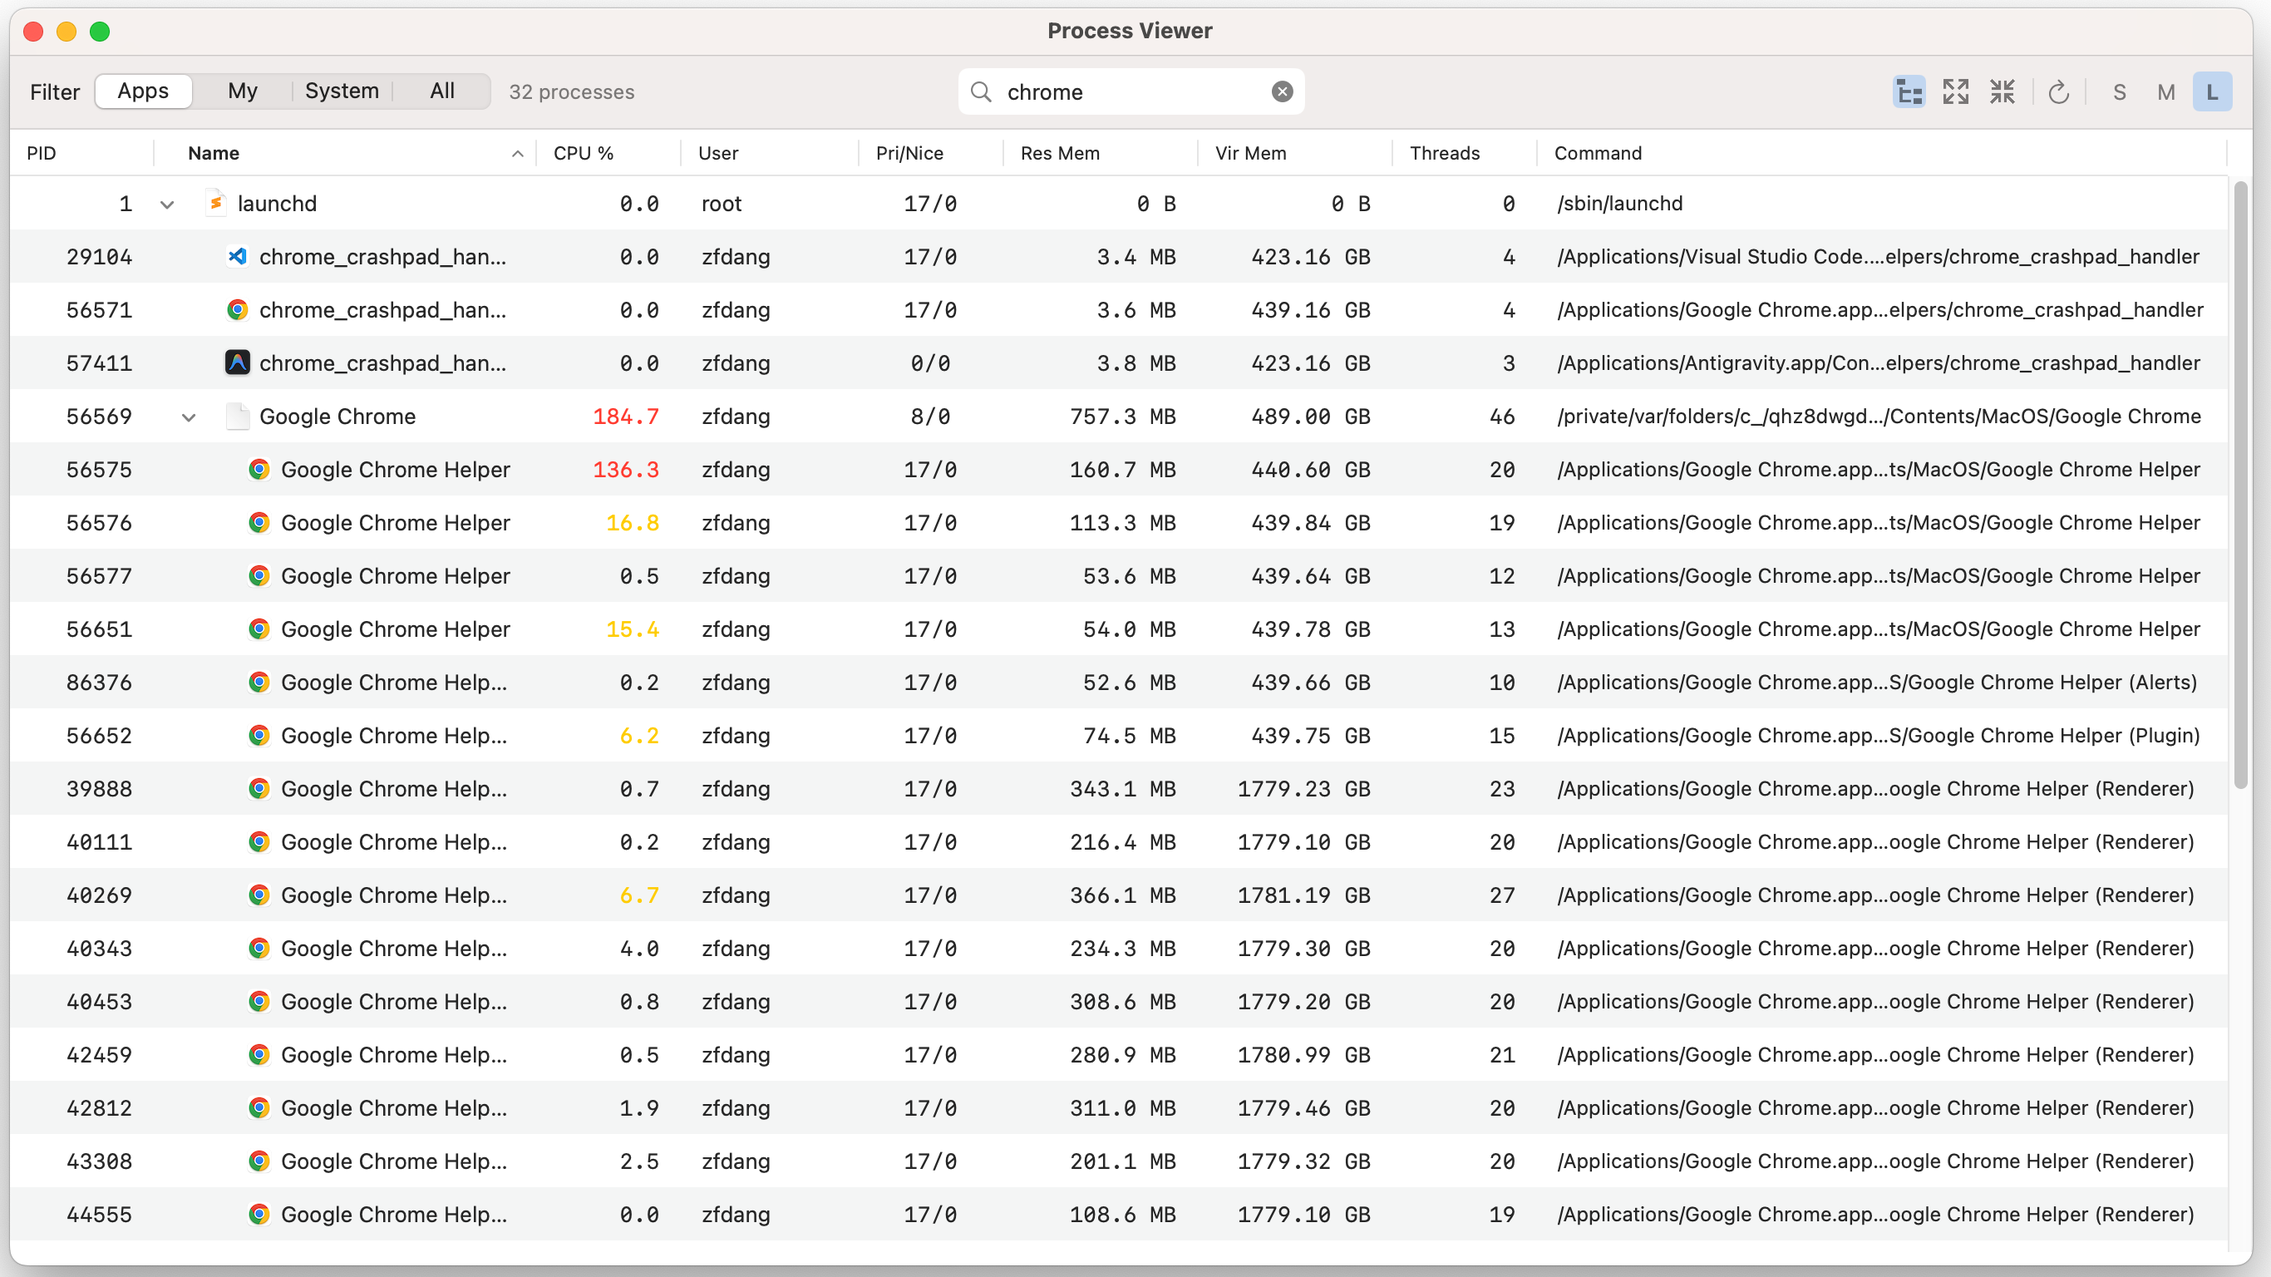
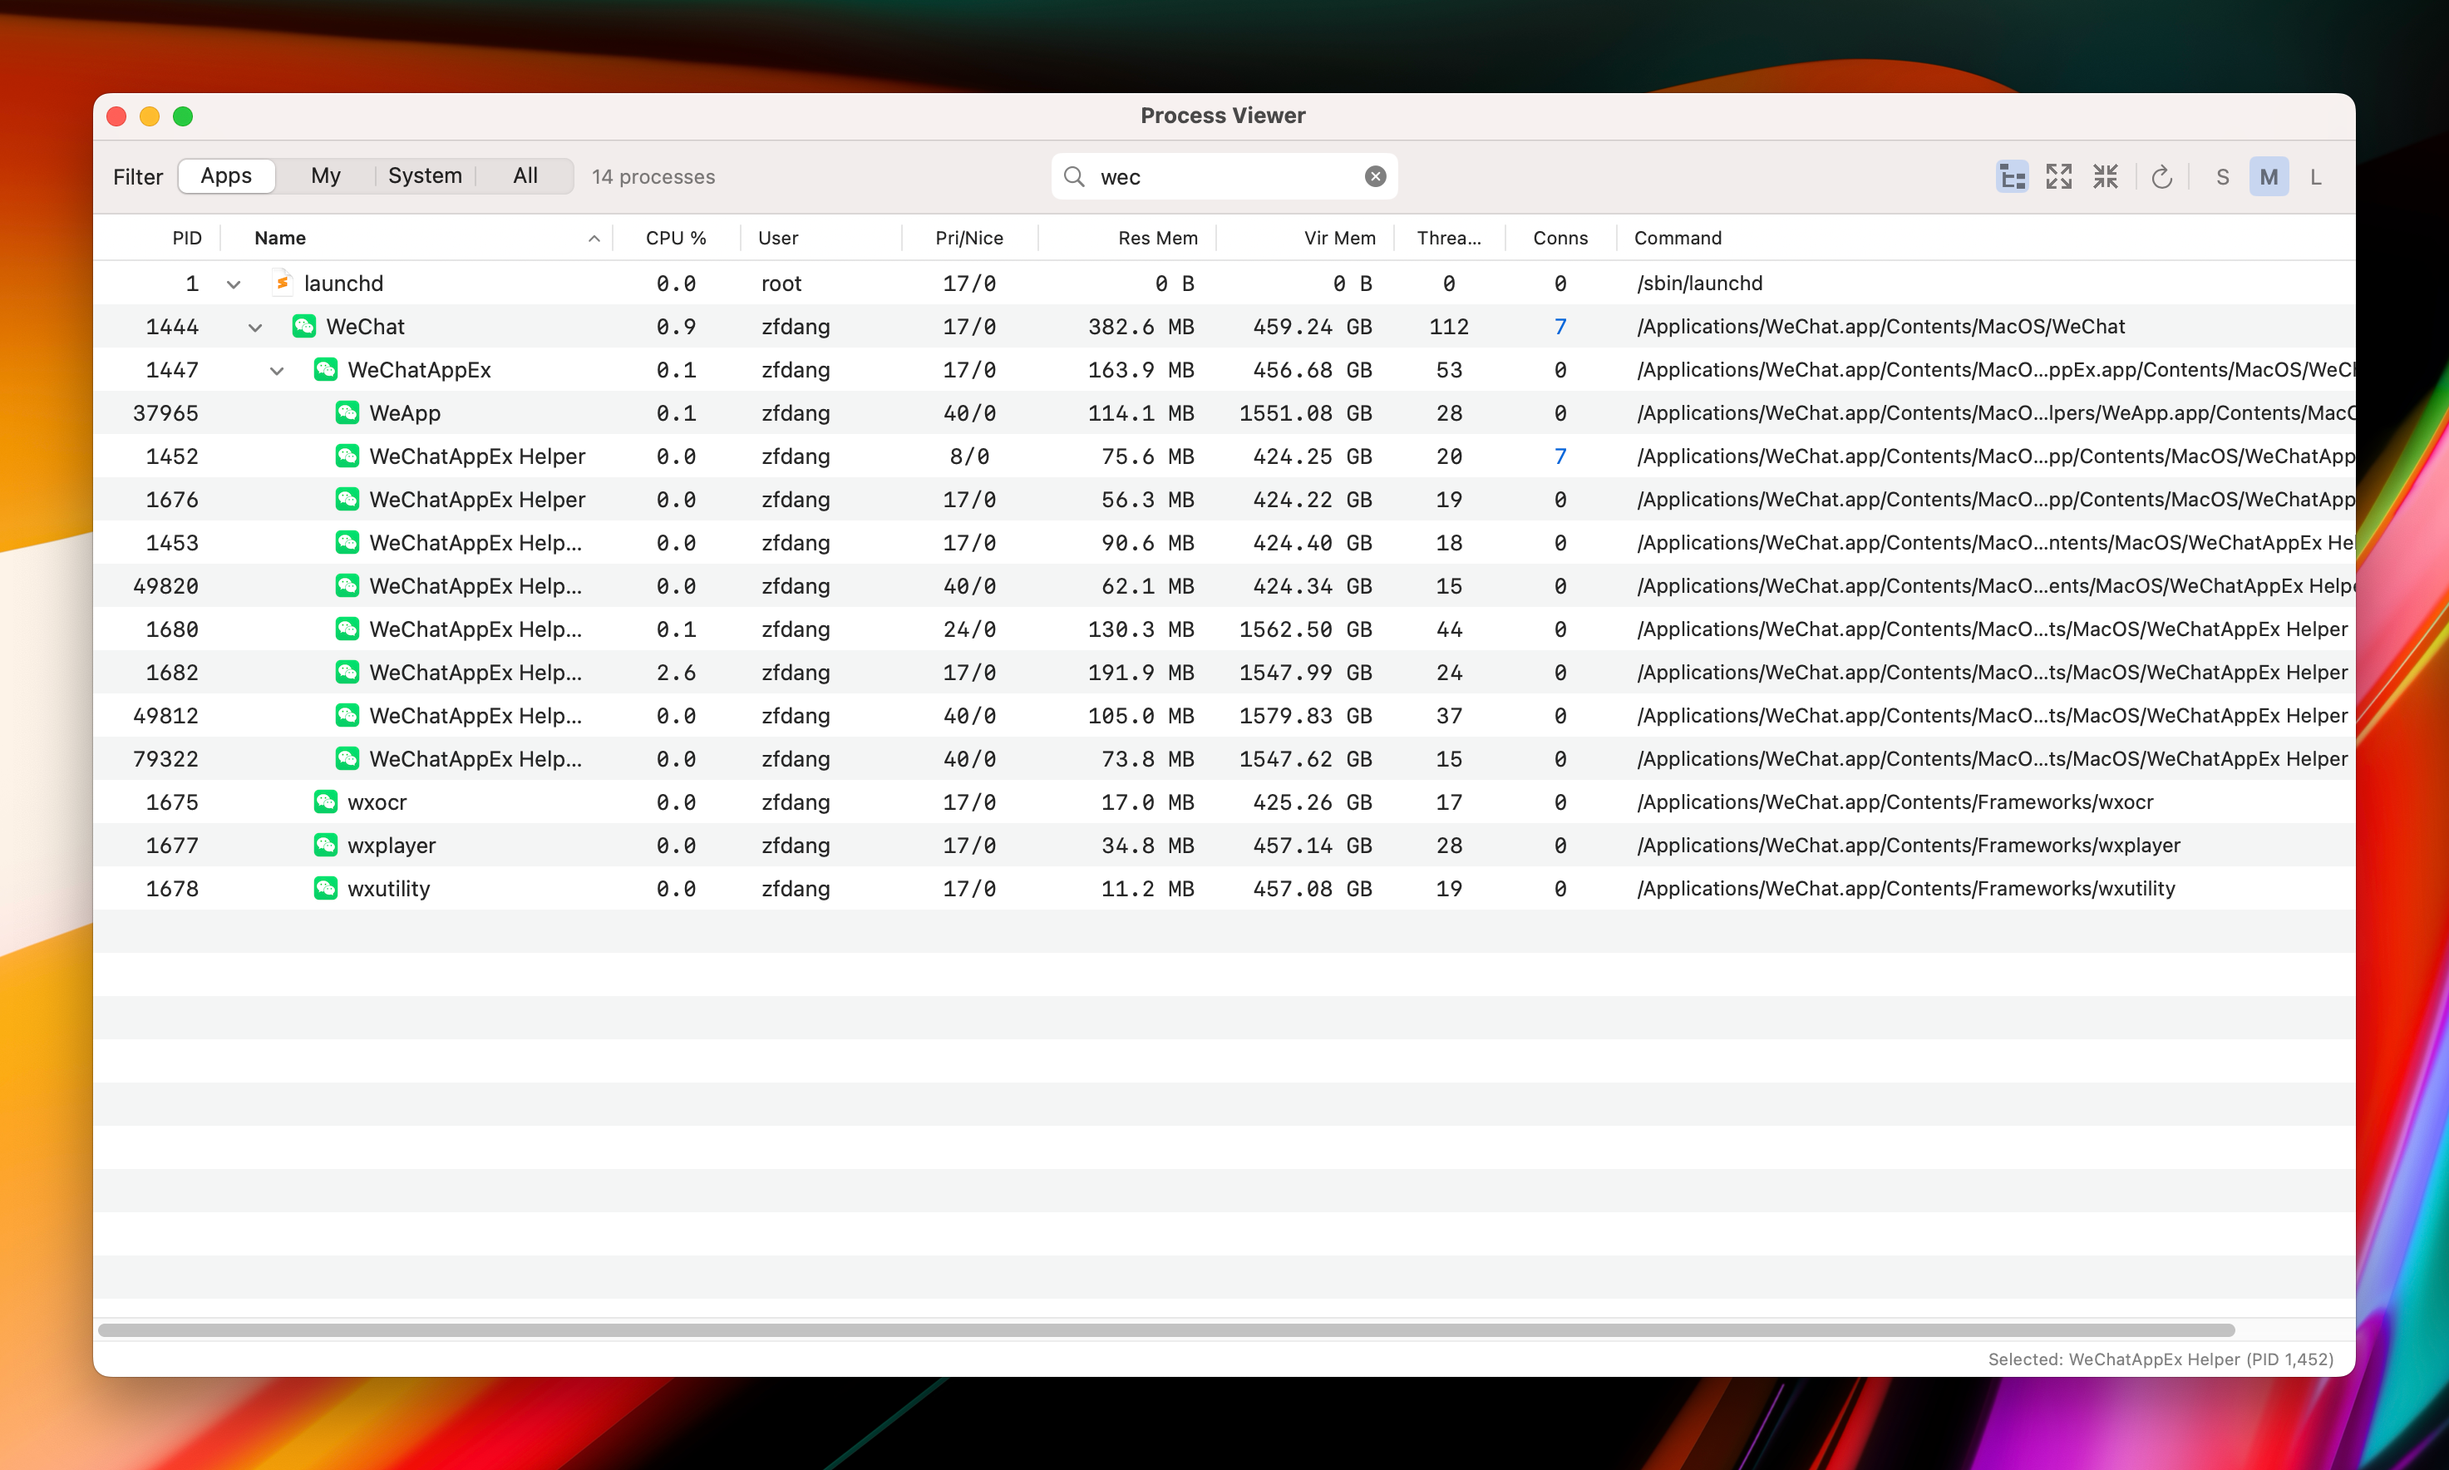
update index & readme

diff --git a/docs/index_zh.html b/docs/index_zh.html
@@ -101,8 +101,8 @@
             </div>
             <div class="feature-card">
                 <div class="feature-icon">🌐</div>
-                <h3>多语言支持</h3>
-                <p>支持中英文界面，自动检测系统语言，可手动切换。</p>
+                <h3>网络连接</h3>
+                <p>查看任何进程的活动网络连接，包括本地/远程地址和端口。</p>
             </div>
             <div class="feature-card">
                 <div class="feature-icon">🔍</div>
@@ -141,12 +141,12 @@
                 <figcaption>搜索和过滤</figcaption>
             </figure>
             <figure class="gallery-item small">
-                <img src="interface-menu-zh.png" alt="右键菜单">
-                <figcaption>右键菜单</figcaption>
-            </figure>
-            <figure class="gallery-item small">
                 <img src="interface-conns-zh.png" alt="网络连接">
                 <figcaption>网络连接</figcaption>
+            </figure>
+            <figure class="gallery-item small">
+                <img src="interface-menu-zh.png" alt="右键菜单">
+                <figcaption>右键菜单</figcaption>
             </figure>
         </div>
     </section>
@@ -169,6 +169,10 @@
                     <tr>
                         <td>CPU %</td>
                         <td>CPU 使用率（颜色标记）</td>
+                    </tr>
+                    <tr>
+                        <td>连接数</td>
+                        <td>活动网络连接数量</td>
                     </tr>
                     <tr>
                         <td>用户</td>
@@ -266,7 +270,53 @@
         <p class="copyright">
             © 2024 Process Viewer. 基于 MIT 许可证开源。
         </p>
-    </footer>
+        <!-- Image Modal -->
+        <div id="imageModal" class="modal">
+            <span class="close-modal">&times;</span>
+            <img class="modal-content" id="img01">
+        </div>
+
+        <!-- JavaScript for Image Zoom -->
+        <script>
+            const modal = document.getElementById("imageModal");
+            const modalImg = document.getElementById("img01");
+            const closeModal = document.querySelector(".close-modal");
+
+            // Get all images that should be zoomable
+            const images = document.querySelectorAll('.screenshot-container img, .gallery-item img');
+
+            images.forEach(img => {
+                img.onclick = function () {
+                    modal.classList.add("active");
+                    modalImg.src = this.src;
+                    document.body.style.overflow = "hidden"; // Prevent scrolling
+                }
+            });
+
+            // Close modal when clicking on (x)
+            closeModal.onclick = function () {
+                closeModalFunc();
+            }
+
+            // Close modal when clicking outside the image
+            modal.onclick = function (event) {
+                if (event.target === modal || event.target === modalImg) {
+                    closeModalFunc();
+                }
+            }
+
+            function closeModalFunc() {
+                modal.classList.remove("active");
+                document.body.style.overflow = "auto";
+            }
+
+            // Close modal with Escape key
+            document.addEventListener('keydown', function (event) {
+                if (event.key === "Escape" && modal.classList.contains("active")) {
+                    closeModalFunc();
+                }
+            });
+        </script>
 </body>
 
 </html>

diff --git a/docs/index.html b/docs/index.html
@@ -106,8 +106,8 @@
             </div>
             <div class="feature-card">
                 <div class="feature-icon">🌐</div>
-                <h3>Multilingual Support</h3>
-                <p>English and Chinese interface with auto-detection and manual language switching.</p>
+                <h3>Network Connections</h3>
+                <p>View active network connections for any process, including local/remote addresses and ports.</p>
             </div>
             <div class="feature-card">
                 <div class="feature-icon">🔍</div>
@@ -146,6 +146,14 @@
                 <figcaption>Search & Filter</figcaption>
             </figure>
             <figure class="gallery-item small">
+                <img src="interface-menu.png" alt="Menu">
+                <figcaption>Menu</figcaption>
+            </figure>
+            <figure class="gallery-item small">
+                <img src="interface-conns-zh.png" alt="Network Connections">
+                <figcaption>Network Connections</figcaption>
+            </figure>
+            <figure class="gallery-item small">
                 <img src="interface-about.png" alt="About Window">
                 <figcaption>About Window</figcaption>
             </figure>
@@ -170,6 +178,10 @@
                     <tr>
                         <td>CPU %</td>
                         <td>CPU usage (color-coded)</td>
+                    </tr>
+                    <tr>
+                        <td>Connections</td>
+                        <td>Active network connection count</td>
                     </tr>
                     <tr>
                         <td>User</td>
@@ -270,6 +282,54 @@
             © 2024 Process Viewer. Open source under MIT License.
         </p>
     </footer>
+
+    <!-- Image Modal -->
+    <div id="imageModal" class="modal">
+        <span class="close-modal">&times;</span>
+        <img class="modal-content" id="img01">
+    </div>
+
+    <!-- JavaScript for Image Zoom -->
+    <script>
+        const modal = document.getElementById("imageModal");
+        const modalImg = document.getElementById("img01");
+        const closeModal = document.querySelector(".close-modal");
+
+        // Get all images that should be zoomable
+        const images = document.querySelectorAll('.screenshot-container img, .gallery-item img');
+
+        images.forEach(img => {
+            img.onclick = function () {
+                modal.classList.add("active");
+                modalImg.src = this.src;
+                document.body.style.overflow = "hidden"; // Prevent scrolling
+            }
+        });
+
+        // Close modal when clicking on (x)
+        closeModal.onclick = function () {
+            closeModalFunc();
+        }
+
+        // Close modal when clicking outside the image
+        modal.onclick = function (event) {
+            if (event.target === modal || event.target === modalImg) {
+                closeModalFunc();
+            }
+        }
+
+        function closeModalFunc() {
+            modal.classList.remove("active");
+            document.body.style.overflow = "auto";
+        }
+
+        // Close modal with Escape key
+        document.addEventListener('keydown', function (event) {
+            if (event.key === "Escape" && modal.classList.contains("active")) {
+                closeModalFunc();
+            }
+        });
+    </script>
 </body>
 
 </html>

diff --git a/docs/style.css b/docs/style.css
@@ -449,3 +449,65 @@ footer {
         grid-template-columns: 1fr;
     }
 }
+
+/* Image Modal */
+.screenshot-container img,
+.gallery-item img {
+    cursor: zoom-in;
+    transition: opacity 0.3s ease;
+}
+
+.screenshot-container img:hover,
+.gallery-item img:hover {
+    opacity: 0.9;
+}
+
+.modal {
+    display: none;
+    position: fixed;
+    z-index: 1000;
+    top: 0;
+    left: 0;
+    width: 100%;
+    height: 100%;
+    background-color: rgba(0, 0, 0, 0.9);
+    cursor: zoom-out;
+    opacity: 0;
+    transition: opacity 0.3s ease;
+    align-items: center;
+    justify-content: center;
+}
+
+.modal.active {
+    display: flex;
+    opacity: 1;
+}
+
+.modal-content {
+    max-width: 90%;
+    max-height: 90%;
+    object-fit: contain;
+    border-radius: 8px;
+    box-shadow: 0 0 30px rgba(0, 0, 0, 0.5);
+    transform: scale(0.9);
+    transition: transform 0.3s ease;
+}
+
+.modal.active .modal-content {
+    transform: scale(1);
+}
+
+.close-modal {
+    position: absolute;
+    top: 20px;
+    right: 30px;
+    color: #fff;
+    font-size: 40px;
+    font-weight: bold;
+    cursor: pointer;
+    transition: color 0.3s;
+}
+
+.close-modal:hover {
+    color: var(--primary);
+}

diff --git a/README_eng.md b/README_eng.md
@@ -14,11 +14,14 @@ A native macOS application for viewing and monitoring system processes with a hi
 ![Main Interface](docs/interface.png)
 
 ![Search](docs/interface-search.png)
+ 
+![Network Connections](docs/interface-conns-zh.png)
 
 ## Features
 
 - **Hierarchical Process Tree**: View processes in a parent-child tree structure
 - **Flat View Mode**: Toggle between hierarchy and flat list view
+- **Network Connections**: View active network connections for any process, including local/remote addresses and ports
 - **Multilingual Support**: English and Chinese with auto-detection and manual override
 - **Resizable Columns**: Drag column borders to adjust width
 - **Sortable Columns**: Click column headers to sort
@@ -37,6 +40,7 @@ A native macOS application for viewing and monitoring system processes with a hi
 |--------|-------------|
 | PID | Process ID |
 | Name | Process name with app icon |
+| Connections | Active network connection count |
 | CPU % | CPU usage (color-coded) |
 | User | Owner username |
 | Pri/Nice | Priority and nice value |

diff --git a/README.md b/README.md
@@ -16,11 +16,14 @@
 ![搜索功能](docs/interface-search-zh.png)
 
 ![快捷菜单](docs/interface-menu-zh.png)
+ 
+![网络连接](docs/interface-conns-zh.png)
 
 ## 功能特性
 
 - **层级进程树**：以父子树状结构查看进程关系
 - **平铺视图模式**：在层级视图和平铺列表之间切换
+- **网络连接**：查看任何进程的活动网络连接，包括本地/远程地址和端口
 - **多语言支持**：支持中英文，自动检测系统语言，可手动切换
 - **可调整列宽**：拖动列边框调整宽度
 - **可排序列**：点击列标题进行排序
@@ -40,6 +43,7 @@
 | 进程 ID | 进程标识符 |
 | 名称 | 进程名称及应用图标 |
 | CPU % | CPU 使用率（颜色标记） |
+| 连接数 | 活动网络连接数量 |
 | 用户 | 所属用户名 |
 | 优先级 | 优先级和 nice 值 |
 | 常驻内存 | 常驻内存使用量 |
